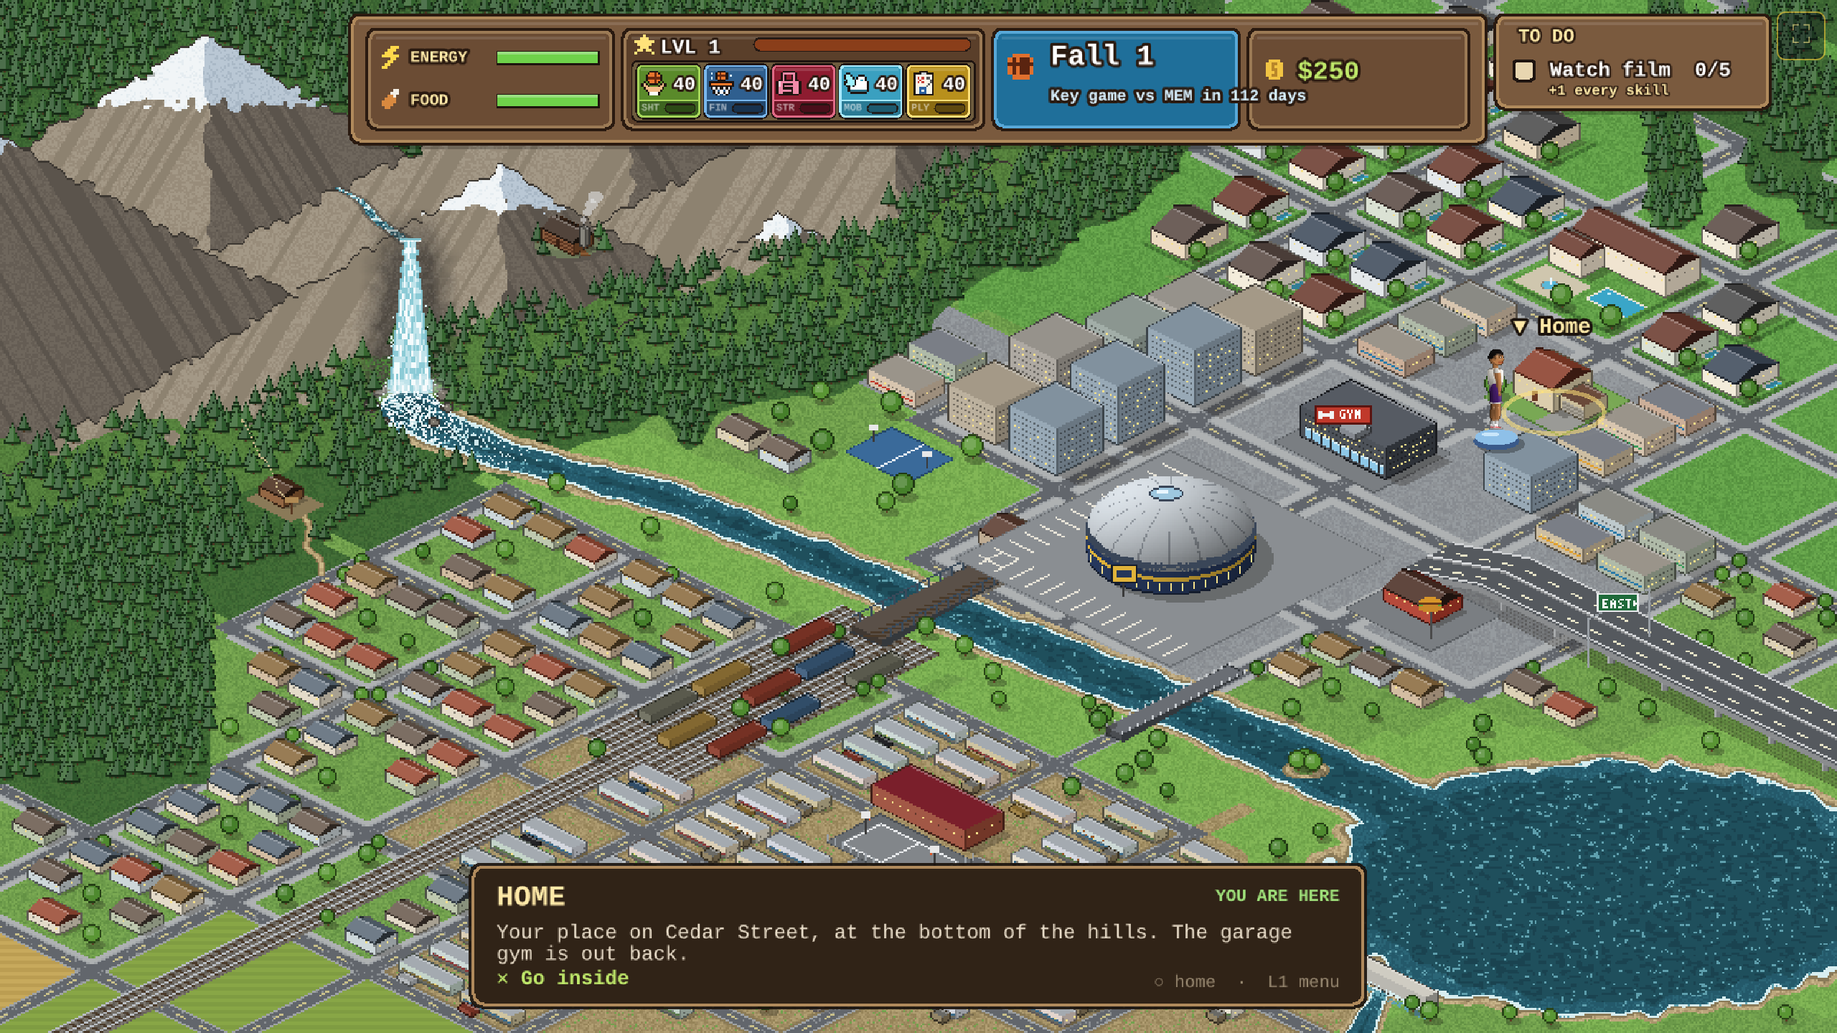
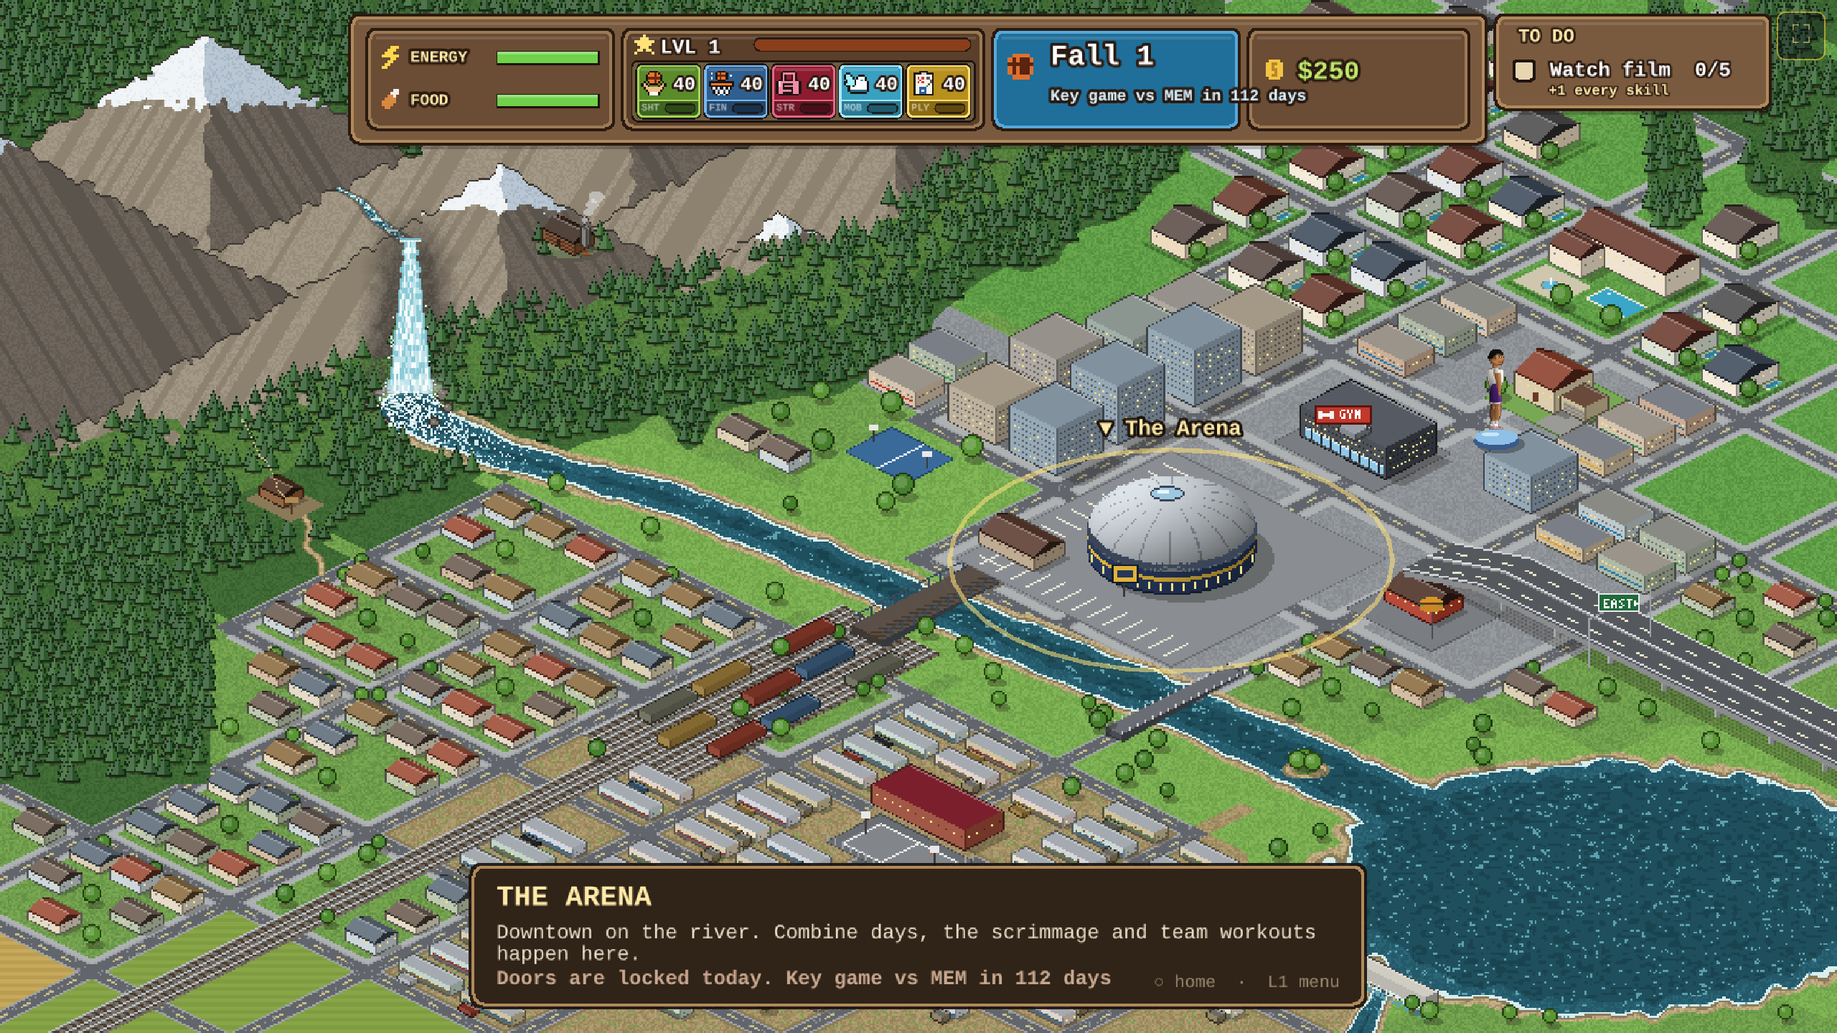
Round 98: places layer like every other building
Each place (home, arena, gym, trailer, Lincoln, Burger Barn, park, gas
station, cabin, highway sign) was one sprite drawn over the whole map, so its
parking lot or yard covered the roofs of buildings in front of it. Its flat
ground now goes down with the rest of the ground and its buildings are sorted
in depth with every other building, all baked into the map. The picked place
is marked by a ring around its whole lot and its name.

Claude-Session: https://claude.ai/code/session_01CcgHT1pqBqfrX5GZbFhXLS

diff --git a/src/render/cityArt.ts b/src/render/cityArt.ts
@@ -1,7 +1,7 @@
 import Phaser from 'phaser';
 import { ART_W, ART_H, C, R, P, hn, mix, bake, canvas, text3 } from './roomArt';
 import { shade, tint } from './sprites';
-import { PLACES, PlaceId } from '../world/city';
+import { PLACES, PLACE, PlaceId } from '../world/city';
 
 /**
  * Round 92 (owner): the city map, drawn in code on the room art's pixel grid (960x540 art px). An isometric town
@@ -679,12 +679,19 @@ function line(c: C, p: Pt, q: Pt, col: string) {
   for (let t = 0; t <= n; t++) P(c, Math.round(p.x + ((q.x - p.x) * t) / Math.max(1, n)), Math.round(p.y + ((q.y - p.y) * t) / Math.max(1, n)), col);
 }
 
-const PLACE_ART: Record<PlaceId, (c: C) => void> = {
+/**
+ * Round 98 (owner: a parking lot drew over a house's roof): each place in two parts, drawn at different times: its
+ * flat `ground` (lots, parking stripes, court lines, ledges, shadows) goes down with the rest of the ground, its
+ * `raised` part (buildings, signs, poles, fences, trees) is sorted in depth with every other building.
+ */
+type Part = 'ground' | 'raised';
+const PLACE_ART: Record<PlaceId, (c: C, part: Part) => void> = {
   // your house on Cedar Street: two storeys, a gable roof, the garage (the gym) attached, a driveway
-  home: (c) => {
+  home: (c, part) => {
+    const G = part === 'ground', Rz = part === 'raised';
     const { u, v } = placeWorld('home');
-    lot(c, u - 12, v - 12, u + 8, v + 6, '#79a854', '#4f7a34');
-    lot(c, u + 1, v - 1, u + 8, v + 6, '#9a9a96');                       // the driveway
+    if (G) { lot(c, u - 12, v - 12, u + 8, v + 6, '#79a854', '#4f7a34'); lot(c, u + 1, v - 1, u + 8, v + 6, '#9a9a96'); return; } // the yard, the driveway
+    if (!Rz) return;
     isoBox(c, u - 9, v - 9, u + 1, v + 1, 12, { wall: '#d8c9a6', roof: '#8a3e2a', windows: 'house', lit: 1, seed: 4 });
     gableRoof(c, u - 9, v - 9, u + 1, v + 1, 12, 6, '#8a3e2a');
     isoBox(c, u + 1, v - 7, u + 7, v - 1, 7, { wall: '#c8b892', roof: '#6a4a3a' });
@@ -694,12 +701,17 @@ const PLACE_ART: Record<PlaceId, (c: C) => void> = {
     tree(c, Math.round(iso(u - 11, v + 4).x), Math.round(iso(u - 11, v + 4).y), 1, 1);
   },
   // the arena: a big dome on a ring wall, gold band, parking around it
-  arena: (c) => {
+  arena: (c, part) => {
+    const G = part === 'ground', Rz = part === 'raised';
     const { u, v } = placeWorld('arena'), cen = iso(u, v);
-    lot(c, u - 28, v - 28, u + 28, v + 28, '#8a8e92', '#6a6e72');
-    for (let k = -24; k <= 24; k += 4) { line(c, iso(u - 26, v + k), iso(u - 20, v + k), '#e8e4d8'); line(c, iso(u + k, v + 20), iso(u + k, v + 26), '#e8e4d8'); }
     const rx = 44, ry = 22, wall = 11, dome = 18, cx = cen.x, cy = cen.y - 4;
-    c.globalAlpha = 0.3; fillEllipse(c, cx + 8, cy + 4, rx + 2, ry + 1, '#1c1a14'); c.globalAlpha = 1;
+    if (G) {
+      lot(c, u - 28, v - 28, u + 28, v + 28, '#8a8e92', '#6a6e72');
+      for (let k = -24; k <= 24; k += 4) { line(c, iso(u - 26, v + k), iso(u - 20, v + k), '#e8e4d8'); line(c, iso(u + k, v + 20), iso(u + k, v + 26), '#e8e4d8'); }
+      c.globalAlpha = 0.3; fillEllipse(c, cx + 8, cy + 4, rx + 2, ry + 1, '#1c1a14'); c.globalAlpha = 1;
+      return;
+    }
+    if (!Rz) return;
     // the ring wall (front half shows): navy with a gold band, darker to the right
     for (let x = Math.floor(cx - rx); x <= Math.ceil(cx + rx); x++) {
       const t = (x - cx) / rx; if (Math.abs(t) > 1) continue;
@@ -726,20 +738,27 @@ const PLACE_ART: Record<PlaceId, (c: C) => void> = {
   },
   // Pine Flats: a row of trailers by the tracks, Mom's at the end with its generator
   // Mom's place: one single-wide like the others in Pine Flats, her generator beside it, a porch step, a flower pot
-  trailer: (c) => {
+  trailer: (c, part) => {
+    const G = part === 'ground', Rz = part === 'raised';
     const { u, v } = placeWorld('trailer');
-    lot(c, u - 8, v - 4, u + 8, v + 5, '#9d8a60');
+    if (G) { lot(c, u - 8, v - 4, u + 8, v + 5, '#9d8a60'); return; }
+    if (!Rz) return;
     trailerAt(c, u - 7, v - 2, '#e8e2d0', false, 3);
     isoBox(c, u + 6.5, v - 1.5, u + 8.5, v + 0.5, 3, { wall: '#5a7a4a', roof: '#6f8a5a' });
     const pot = iso(u - 2, v + 2.2); R(c, Math.round(pot.x), Math.round(pot.y) - 2, 2, 2, '#9a5a3a'); P(c, Math.round(pot.x), Math.round(pot.y) - 3, '#e05a8a'); P(c, Math.round(pot.x) + 1, Math.round(pot.y) - 3, '#5aa83a');
   },
   // Lincoln High: the brick school, the fenced outdoor court (grey asphalt, white lines) with two hoops
-  lincoln: (c) => {
+  lincoln: (c, part) => {
+    const G = part === 'ground', Rz = part === 'raised';
     const { u, v } = placeWorld('lincoln');
+    if (G) {
+      lot(c, u - 14, v - 6, u + 10, v + 8, '#6a6e72', '#4a4e52');
+      lot(c, u - 12, v - 4, u + 8, v + 6, '#82868a');
+      for (const [a, b] of [[iso(u - 12, v - 4), iso(u + 8, v - 4)], [iso(u + 8, v - 4), iso(u + 8, v + 6)], [iso(u + 8, v + 6), iso(u - 12, v + 6)], [iso(u - 12, v + 6), iso(u - 12, v - 4)], [iso(u - 2, v - 4), iso(u - 2, v + 6)]]) line(c, a, b, '#e8eaec');
+      return;
+    }
+    if (!Rz) return;
     isoBox(c, u - 18, v - 18, u + 6, v - 8, 10, { wall: '#9a4a36', roof: '#7a1f2b', windows: 'house', lit: 0.4, seed: 9 });
-    lot(c, u - 14, v - 6, u + 10, v + 8, '#6a6e72', '#4a4e52');
-    lot(c, u - 12, v - 4, u + 8, v + 6, '#82868a');
-    for (const [a, b] of [[iso(u - 12, v - 4), iso(u + 8, v - 4)], [iso(u + 8, v - 4), iso(u + 8, v + 6)], [iso(u + 8, v + 6), iso(u - 12, v + 6)], [iso(u - 12, v + 6), iso(u - 12, v - 4)], [iso(u - 2, v - 4), iso(u - 2, v + 6)]]) line(c, a, b, '#e8eaec');
     for (const [hu, sgn] of [[u - 11, 1], [u + 7, -1]] as const) {
       const b = iso(hu, v + 1);
       R(c, Math.round(b.x), Math.round(b.y) - 9, 1, 9, '#3a3a3a');
@@ -749,9 +768,11 @@ const PLACE_ART: Record<PlaceId, (c: C) => void> = {
     for (let k = 0; k <= 14; k += 2) { const p = iso(u + 10, v - 6 + k); R(c, Math.round(p.x), Math.round(p.y) - 4, 1, 4, '#9aa0a6'); }
   },
   // Iron Works: the big gym downtown, a wide dark box with a glass front, a red sign with a dumbbell on the roof
-  gym: (c) => {
+  gym: (c, part) => {
+    const G = part === 'ground', Rz = part === 'raised';
     const { u, v } = placeWorld('gym');
-    lot(c, u - 15, v - 12, u + 11, v + 8, '#7a7e82', '#5a5e62');
+    if (G) { lot(c, u - 15, v - 12, u + 11, v + 8, '#7a7e82', '#5a5e62'); return; }
+    if (!Rz) return;
     const b = isoBox(c, u - 13, v - 10, u + 9, v + 3, 16, { wall: '#3e434b', roof: '#565b63', windows: 'tower', lit: 0.5, seed: 41 });
     // the glass front: bright panes on the left face's lower half
     for (let x = Math.round(b.D.x) + 2; x < Math.round(b.C.x) - 1; x++) { const yb = Math.round(b.D.y + (x - b.D.x) / 2); for (let k = 2; k < 7; k++) P(c, x, yb - k, x % 5 === 0 ? '#2a2e34' : k === 6 ? '#d8eef8' : '#8ec8e8'); }
@@ -764,9 +785,11 @@ const PLACE_ART: Record<PlaceId, (c: C) => void> = {
     for (const dx of [-12, 12]) R(c, Math.round(s.x) + dx, Math.round(s.y) - 1, 1, 3, '#3a3a3a');
   },
   // Burger Barn: a red barn with a big burger on a pole
-  burger: (c) => {
+  burger: (c, part) => {
+    const G = part === 'ground', Rz = part === 'raised';
     const { u, v } = placeWorld('burger');
-    lot(c, u - 12, v - 10, u + 10, v + 8, '#7a7e82', '#5a5e62');
+    if (G) { lot(c, u - 12, v - 10, u + 10, v + 8, '#7a7e82', '#5a5e62'); return; }
+    if (!Rz) return;
     isoBox(c, u - 9, v - 7, u + 3, v + 1, 7, { wall: '#b03a2a', roof: '#5a3a2e', windows: 'house', lit: 1, seed: 31 });
     gableRoof(c, u - 9, v - 7, u + 3, v + 1, 7, 5, '#4a2e24');
     const p = iso(u + 7, v + 5); R(c, Math.round(p.x), Math.round(p.y) - 16, 1, 16, '#4a4a4a');
@@ -774,17 +797,20 @@ const PLACE_ART: Record<PlaceId, (c: C) => void> = {
     fillEllipse(c, p.x, p.y - 16, 6, 2, '#c8862a');
   },
   // Riverside Park: a blue court, a path, trees
-  park: (c) => {
+  park: (c, part) => {
+    const G = part === 'ground', Rz = part === 'raised';
     const { u, v } = placeWorld('park');
-    lot(c, u - 8, v - 6, u + 8, v + 6, '#3a6a9a', '#24486a');
-    line(c, iso(u, v - 6), iso(u, v + 6), '#e8eef4');
+    if (G) { lot(c, u - 8, v - 6, u + 8, v + 6, '#3a6a9a', '#24486a'); line(c, iso(u, v - 6), iso(u, v + 6), '#e8eef4'); return; }
+    if (!Rz) return;
     for (const hu of [u - 7, u + 7]) { const b = iso(hu, v); R(c, Math.round(b.x), Math.round(b.y) - 7, 1, 7, '#3a3a3a'); R(c, Math.round(b.x) - 2, Math.round(b.y) - 9, 5, 3, '#e8e8e8'); }
     for (const [du, dv] of [[-12, -10], [10, -9], [-11, 9], [11, 10]]) { const t = iso(u + du, v + dv); tree(c, Math.round(t.x), Math.round(t.y), 1, du); }
   },
   // Gas 'n Go: a canopy over two pumps, the little store, the price sign on its pole
-  gas: (c) => {
+  gas: (c, part) => {
+    const G = part === 'ground', Rz = part === 'raised';
     const { u, v } = placeWorld('gas');
-    lot(c, u - 12, v - 10, u + 12, v + 9, '#6e7276', '#4e5256');
+    if (G) { lot(c, u - 12, v - 10, u + 12, v + 9, '#6e7276', '#4e5256'); return; }
+    if (!Rz) return;
     isoBox(c, u + 2, v - 8, u + 10, v - 2, 6, { wall: '#e8e2d0', roof: '#c0392b', windows: 'house', lit: 1, seed: 51 });
     for (const pu of [u - 6, u - 1]) isoBox(c, pu, v - 0.5, pu + 1, v + 0.5, 3, { wall: '#c0392b', roof: '#e8e8e8' });
     const H = 10, A = up(iso(u - 9, v - 4), H), B = up(iso(u + 2, v - 4), H), C2 = up(iso(u + 2, v + 4), H), D = up(iso(u - 9, v + 4), H);
@@ -797,10 +823,12 @@ const PLACE_ART: Record<PlaceId, (c: C) => void> = {
     text3(c, Math.round(sp.x) - 3, Math.round(sp.y) - 22, '3', '#2a8a3a'); text3(c, Math.round(sp.x) + 1, Math.round(sp.y) - 22, '9', '#2a8a3a');
   },
   // the cabin up the mountain: a clearing in the pines, log walls, a stone chimney with smoke, a woodpile
-  cabin: (c) => {
+  cabin: (c, part) => {
+    const G = part === 'ground', Rz = part === 'raised';
     const { u, v } = placeWorld('cabin'), cen = iso(u, v);
     // round 95 (owner): high up the mountain on a rock ledge under the snow, a few hardy pines around it
-    fillEllipse(c, cen.x, cen.y + 1, 19, 8, '#5b544c'); fillEllipse(c, cen.x - 1, cen.y, 17, 7, '#6e7a5a'); fillEllipse(c, cen.x - 3, cen.y - 1, 11, 4, '#7d8a64');
+    if (G) { fillEllipse(c, cen.x, cen.y + 1, 19, 8, '#5b544c'); fillEllipse(c, cen.x - 1, cen.y, 17, 7, '#6e7a5a'); fillEllipse(c, cen.x - 3, cen.y - 1, 11, 4, '#7d8a64'); return; }
+    if (!Rz) return;
     for (const [dx, dy, h] of [[-17, -2, 9], [15, -4, 8], [18, 3, 10], [-14, 5, 8]]) pine(c, Math.round(cen.x + dx), Math.round(cen.y + dy), h, dx > 0 ? 1 : 2);
     const b = isoBox(c, u - 5, v - 3, u + 3, v + 2, 6, { wall: '#7a4a2a', roof: '#3a2a20' });
     for (let x = Math.round(b.D.x) + 1; x < Math.round(b.C.x); x++) for (let k = 2; k < 6; k += 2) P(c, x, Math.round(b.D.y + (x - b.D.x) / 2) - k, '#5a3420');
@@ -812,7 +840,9 @@ const PLACE_ART: Record<PlaceId, (c: C) => void> = {
     const d = iso(u - 1, v + 2); R(c, Math.round(d.x) - 1, Math.round(d.y) - 4, 2, 4, '#3a2014');
   },
   // the interstate's sign gantry over the deck: green board, EAST and an arrow
-  highway: (c) => {
+  highway: (c, part) => {
+    const G = part === 'ground', Rz = part === 'raised';
+    if (!Rz) return;
     const { u } = placeWorld('highway'), h = hwyH(u);
     const p0 = iso(u, HWY.v0 - 1), p1 = iso(u, HWY.v1 + 1), H = h + 14;
     R(c, Math.round(p0.x), Math.round(p0.y) - H, 1, H, '#9aa0a6'); R(c, Math.round(p1.x), Math.round(p1.y) - H, 1, H, '#9aa0a6');
@@ -927,22 +957,32 @@ function poolRocks(c: C) {
 }
 
 // ---------------------------------------------------------------- build
+/** Where a place's raised part sorts among the buildings: the front of its lot (the arena: the front of its dome). */
+function placeKey(id: PlaceId): number {
+  const p = PLACE[id], w = world(p.at.x, p.at.y), lot = PLACE_LOT[id];
+  if (id === 'arena') return p.at.y + 18;
+  return lot ? iso(w.u + lot[2], w.v + lot[3]).y : p.at.y;
+}
 function paintAll(c: C) {
   paintGround(c); paintMountain(c); paintBridges(c); paintDam(c); poolRocks(c); paintTrail(c);
-  for (const o of cityObjects().sort((a, b) => a.y - b.y)) o.draw(c);
+  // round 98: the places' flat ground goes down with the ground; their buildings sort in with everyone else's
+  for (const p of PLACES) PLACE_ART[p.id](c, 'ground');
+  const objs = cityObjects();
+  for (const p of PLACES) if (p.id !== 'highway') objs.push({ y: placeKey(p.id), draw: (cc) => PLACE_ART[p.id](cc, 'raised') });
+  for (const o of objs.sort((a, b) => a.y - b.y)) o.draw(c);
   drawTrailhead(c);
   paintHighway(c);
+  PLACE_ART.highway(c, 'raised'); // the sign gantry stands over the deck
 }
 /** The whole map on one canvas (dev previews): the background with every place and the falls drawn in. */
 export function drawCityCanvas(): HTMLCanvasElement {
   const cv = canvas(ART_W, ART_H), c = cv.getContext('2d')!;
   paintAll(c);
   drawFalls(c, 0);
-  for (const p of [...PLACES].sort((a, b) => a.at.y - b.at.y)) PLACE_ART[p.id](c);
   return cv;
 }
 
-export const CITY_BG = 'city_bg_v5';
+export const CITY_BG = 'city_bg_v6';
 /** Where each baked sprite sits on the map (art px), kept with the textures. */
 const OFFSETS = new Map<string, { x: number; y: number }>();
 /** The map's textures (built once, kept across visits): the background, one per place, the falls (3 frames). */
@@ -954,11 +994,12 @@ export function buildCityArt(tm: Phaser.Textures.TextureManager): { places: Reco
   }
   const places = {} as Record<PlaceId, { key: string; x: number; y: number }>;
   for (const p of PLACES) {
-    const key = `city_${p.id}_v5`;
-    if (!tm.exists(key) || !OFFSETS.has(key)) { const b = bake(tm, key, 1, (c) => PLACE_ART[p.id](c)); OFFSETS.set(key, { x: b.x, y: b.y }); }
+    const key = `city_${p.id}_v6`;
+    // round 98: the places are part of the background now; this sprite only gives the scene its bounds (the name tag)
+    if (!tm.exists(key) || !OFFSETS.has(key)) { const b = bake(tm, key, 1, (c) => { PLACE_ART[p.id](c, 'ground'); PLACE_ART[p.id](c, 'raised'); }); OFFSETS.set(key, { x: b.x, y: b.y }); }
     places[p.id] = { key, ...OFFSETS.get(key)! };
   }
-  const fk = 'city_falls_v5';
+  const fk = 'city_falls_v6';
   if (!tm.exists(fk) || !OFFSETS.has(fk)) { const b = bake(tm, fk, 3, drawFalls); OFFSETS.set(fk, { x: b.x, y: b.y }); }
   const falls = { key: fk, ...OFFSETS.get(fk)! };
   return { places, falls };

diff --git a/src/scenes/CityScene.ts b/src/scenes/CityScene.ts
@@ -64,7 +64,8 @@ export class CityScene extends Phaser.Scene {
     this.ring = this.add.graphics().setDepth(19); // over the places' lots, under you
     for (const p of PLACES) {
       const a = art.places[p.id];
-      const img = this.add.image(a.x * ART, a.y * ART, a.key).setOrigin(0, 0).setScale(ART).setDepth(10 + p.at.y / 1000);
+      // round 98: the places are drawn into the background in depth order; the image only marks where the tag goes
+      const img = this.add.image(a.x * ART, a.y * ART, a.key).setOrigin(0, 0).setScale(ART).setDepth(10 + p.at.y / 1000).setVisible(false);
       this.sprites.set(p.id, { img, y: a.y * ART });
     }
     this.pedestal = this.add.graphics().setDepth(20);
@@ -157,16 +158,24 @@ export class CityScene extends Phaser.Scene {
   private drawSelection() {
     const g = this.ring.clear();
     // round 95 (owner): the picked place stays put (no bob); the ring shows which one it is
-    const p = PLACE[this.sel], x = p.at.x * ART, y = p.at.y * ART, k = 0.5 + 0.5 * Math.sin(this.t * 5);
-    g.lineStyle(3, 0xffe27a, 0.55 + 0.35 * k).strokeEllipse(x, y + 2, 70 + k * 6, 30 + k * 3);
-    g.lineStyle(2, 0xffffff, 0.35 * k).strokeEllipse(x, y + 2, 84 + k * 8, 38 + k * 4);
+    const p = PLACE[this.sel], x = p.at.x * ART, k = 0.5 + 0.5 * Math.sin(this.t * 5);
+    // round 98: the places are in the background, so the ring goes around the whole lot (not across the building)
+    const r = this.ringFor(this.sel);
+    g.lineStyle(3, 0xffe27a, 0.55 + 0.35 * k).strokeEllipse(r.x, r.y, r.w + k * 6, r.h + k * 3);
+    g.lineStyle(2, 0xffffff, 0.35 * k).strokeEllipse(r.x, r.y, r.w + 14 + k * 8, r.h + 7 + k * 4);
     const top = this.sprites.get(this.sel)!.img;
     this.tag.setText(`▼ ${p.name}`).setPosition(x, top.y - 4);
     // the event place pulses even when it isn't picked
     if (todaysEvents(app.career).length && this.sel !== 'arena') {
       const a = PLACE.arena;
-      g.lineStyle(2, 0x9fe07a, 0.4 + 0.4 * k).strokeEllipse(a.at.x * ART, a.at.y * ART + 2, 76, 32);
+      const ra = this.ringFor('arena'); g.lineStyle(2, 0x9fe07a, 0.4 + 0.4 * k).strokeEllipse(ra.x, ra.y, ra.w, ra.h);
     }
+  }
+
+  /** The ring around a place's lot: from its picture's bounds (the lot is the bottom diamond, 2:1). */
+  private ringFor(id: PlaceId) {
+    const img = this.sprites.get(id)!.img, w = Math.max(60, img.displayWidth + 10), bottom = img.y + img.displayHeight;
+    return { x: img.x + img.displayWidth / 2, y: bottom - img.displayWidth / 4, w, h: w / 2 };
   }
 
   /** You on a little round pedestal at the place you're at (or hopping to the next). */

diff --git a/docs/HISTORY.md b/docs/HISTORY.md
@@ -128,6 +128,7 @@ committed, pushed to `main`, and the browser link republished.
 | 84 | `d76dbbe` | Agent renamed Donovan Garcia; he leaves through the garage's side door and hops the backyard fence; top bar = the date + days to the next event; final Winter 27, letter Winter 28, apartment Spring 1; call Mom the first night; after the scrimmage a week of work (generator, burger register, workouts); Garcia's three calls (one per tier) add workouts on random days, overlaps make you choose; tier-specific workouts; draft night with Mom and old teammates; always drafted by a bottom-tier team | `career/draft.ts`, `sim/draftGames.ts`, playable combine / scrimmage / shooting drill / pressure drill / 1v1 vs a starter / team scrimmage, `MontageScene` + Burger Barn, draft night, date card |
 | 85 | `0a27bfc` | Double workout orbs and energy; a rebound triangle under the garage hoop; remember the best perfect streak (NEW RECORD) and faster returns after perfects; the combine in an arena (empty stands, scouts on the bench) with laps, machines, a mash-✕ vertical jump and the shooting mini-game, shuffled over two days; the scrimmage and tryouts in empty arenas (the team's arena) with scouts; a landline to call Mom or Garcia (draft estimate, the draft follows it); Garcia mentions the TV (film, later) and the phone | arena gym room, `JumpGame`, `draftEstimate`, scouts-only games, landline |
 | 90 | `c33ca18` | After the scrimmage the TV shows what they're saying about you (Garcia tells you): 3 strengths and 3 weaknesses, ordered by how far from average, mostly ratings vs your position in the class and a little the scrimmage, no near-duplicate descriptors | `scoutReport.ts`, `shotLog` event, TV `openReport`, Garcia lines |
+| 98 | (this round) | Places' ground drew above other buildings (a parking lot over a house's roof) | `cityArt.ts` `PLACE_ART(c, 'ground' / 'raised')`, `placeKey`, `paintAll` draws grounds first and sorts raised parts with the buildings; CityScene's place images hidden (bounds only); textures `_v6` |
 | 97 | `cfb3c97` | Roads that go nowhere: cut them off (owner's drawing), get rid of that kind of road; a trail from the trailhead to the street | `cityArt.ts` `roadKept` / `builtBlock` (memoized), cut streets painted as their surroundings, sidewalks only along kept streets, no park paths, `trail` / `paintTrail`, textures `_v4` |
 | 96 | `75e404f` | The top two's designs from two pictures should always be how they look (hair colour, wristbands, everything) | `draftClass.TOP_LOOKS` full `Appearance`s, `prospectLook` returns them pinned; round 88 test checks every save |
 | 95 | `a7bb108` | Cabin further up the mountain; houses in forest terrain; water under the waterfall joining the river; buildings showing under the arena / burger / gym lots; no floating selected building | `cityArt.ts`: `PLACE_LOT` footprints in `nearPlace`, `land()` checks `zoneAt` != forest, `paintMountain` and the gorge skip water, bigger pool + river head, lighter mist, cabin ledge; `city.ts` cabin anchor; CityScene no bob |

diff --git a/docs/DECISIONS.md b/docs/DECISIONS.md
@@ -188,6 +188,10 @@ Chronological. "Superseded" marks decisions later changed by the owner.
   - Draft week this round = **calendar + talk only** (owner); the combine, scrimmage and draft come later. Later the
     story reveals Hale made the generator fail, and you choose to fire or keep him.
   - Newspaper photo: headroom above tall hair, only the jersey and the wall are dithered (hair and face stay clean).
+- **Round 98 (owner): places layer like everything else.** A place's flat ground (lot, parking, court) goes down with
+  the rest of the ground, and its buildings are drawn in depth order with every other building, so a house in front
+  of the arena draws over its parking lot instead of under it. The places are part of the map's background now (the
+  picked one is marked by the ring and its name).
 - **Round 97 (owner): no roads to nowhere.** The streets are a network: a stretch between two crossings exists if
   there's town on either side of it (the edge streets the houses face stay: owner, 97b) and neither crossing is in the
   forest, on the mountain or in the water; then every dead end is trimmed back until each street connects at both ends

diff --git a/docs/STATUS.md b/docs/STATUS.md
@@ -261,6 +261,8 @@ options, result screen with rematch), **Career** (hub, level up, perk trees, ult
   'ones' = every node in `NODES`.
   Round 60e: `GameSim.settle(dt)` (after the final whistle: land, idle, velocities out, ball to the floor; GameScene
   calls it every frame while `over`); StoryRun waits 1.3 s before the 1s goodbye; trailer pieces `_v3`.
+  Round 98: `cityArt.ts` places split into `ground` / `raised` (`PLACE_ART(c, part)`), grounds painted after the
+  ground pass, raised parts sorted with the buildings by `placeKey`; the scene's place images are invisible (tag bounds).
   Round 97: `cityArt.ts` `roadNet()` (segments `segU` / `segV` between crossings: town on either side via memoized
   `builtBlock`, crossings not in forest / mountain / water, the bridge street; dead ends pruned until none are left;
   the map's edge and the bridge count as connected) behind `roadKept(u, v)`, used by the ground, the sidewalks, the
